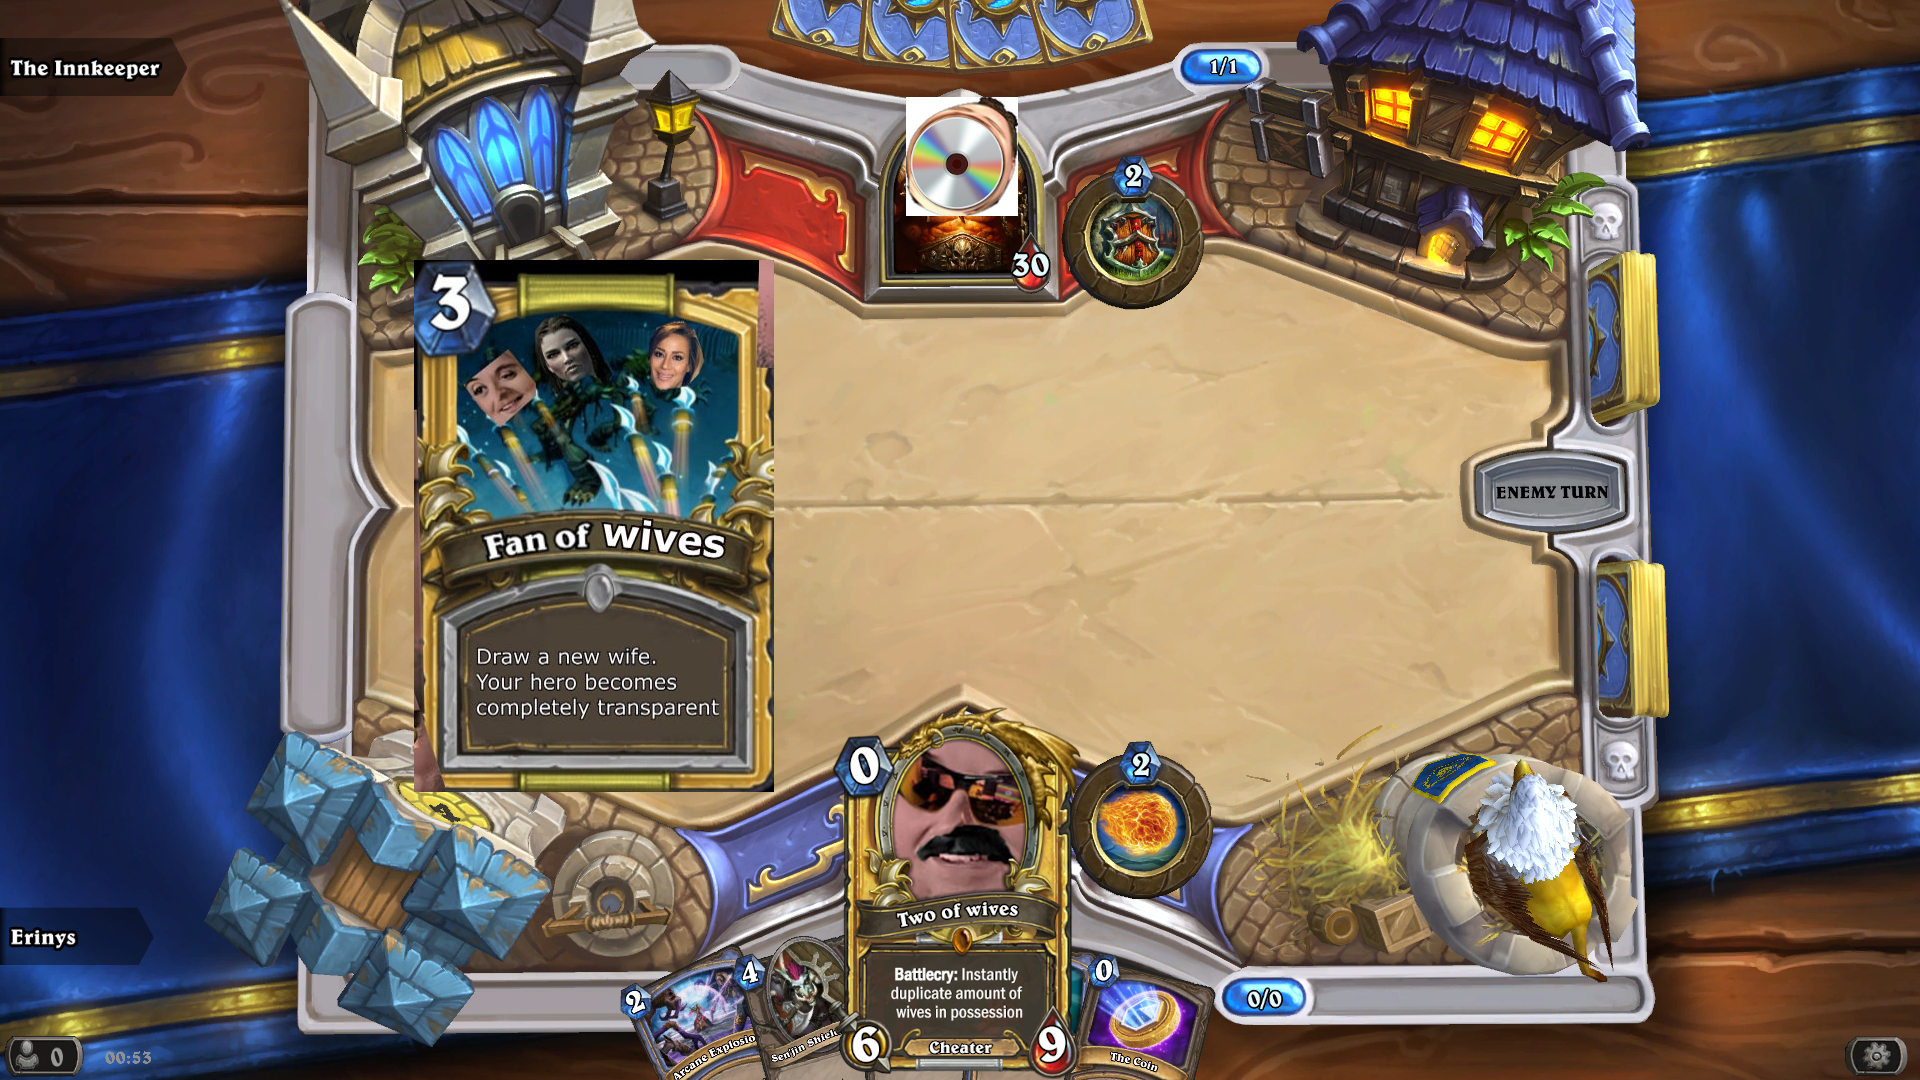
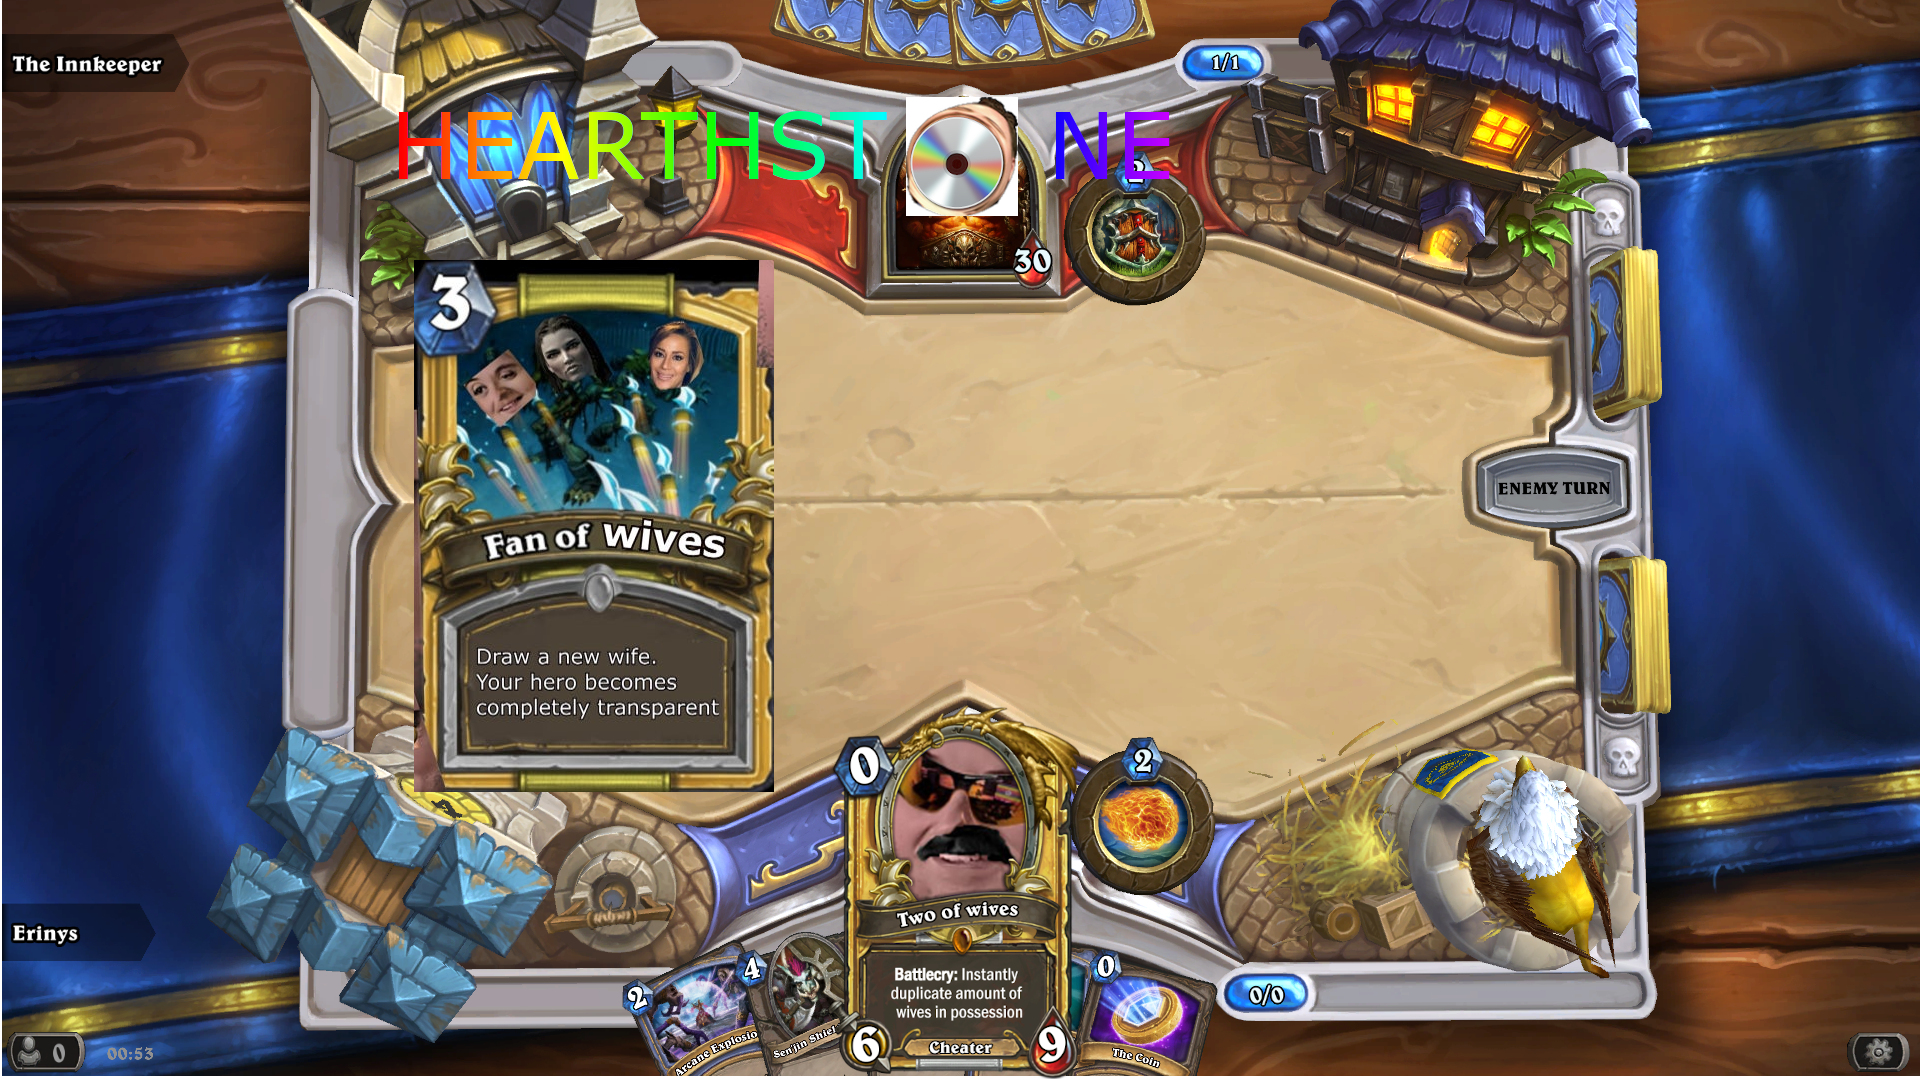
I made many changes forsenCD

diff --git a/public_html/Cheater.html b/public_html/Cheater.html
@@ -8,11 +8,11 @@
         <link rel="stylesheet" type="text/css" href="StyleCheater.css">
     </head>
     <body>
-        
+        <!--
         <div id="title">
             <center><h1>Hearthst &nbsp;&nbsp;&nbsp; ne</h1></center>
         </div>
-         
-         
+        -->
+        
     </body>
 </html>

diff --git a/public_html/StyleCheater.css b/public_html/StyleCheater.css
@@ -2,6 +2,7 @@ body {
   background-image: url('img/HearthstoneBackground.jpg');
 }
 
+/*
 #title {
     float: left;
     margin-left: 27%;
@@ -11,3 +12,4 @@ body {
   -webkit-text-fill-color: transparent;
     
 }
+*/
